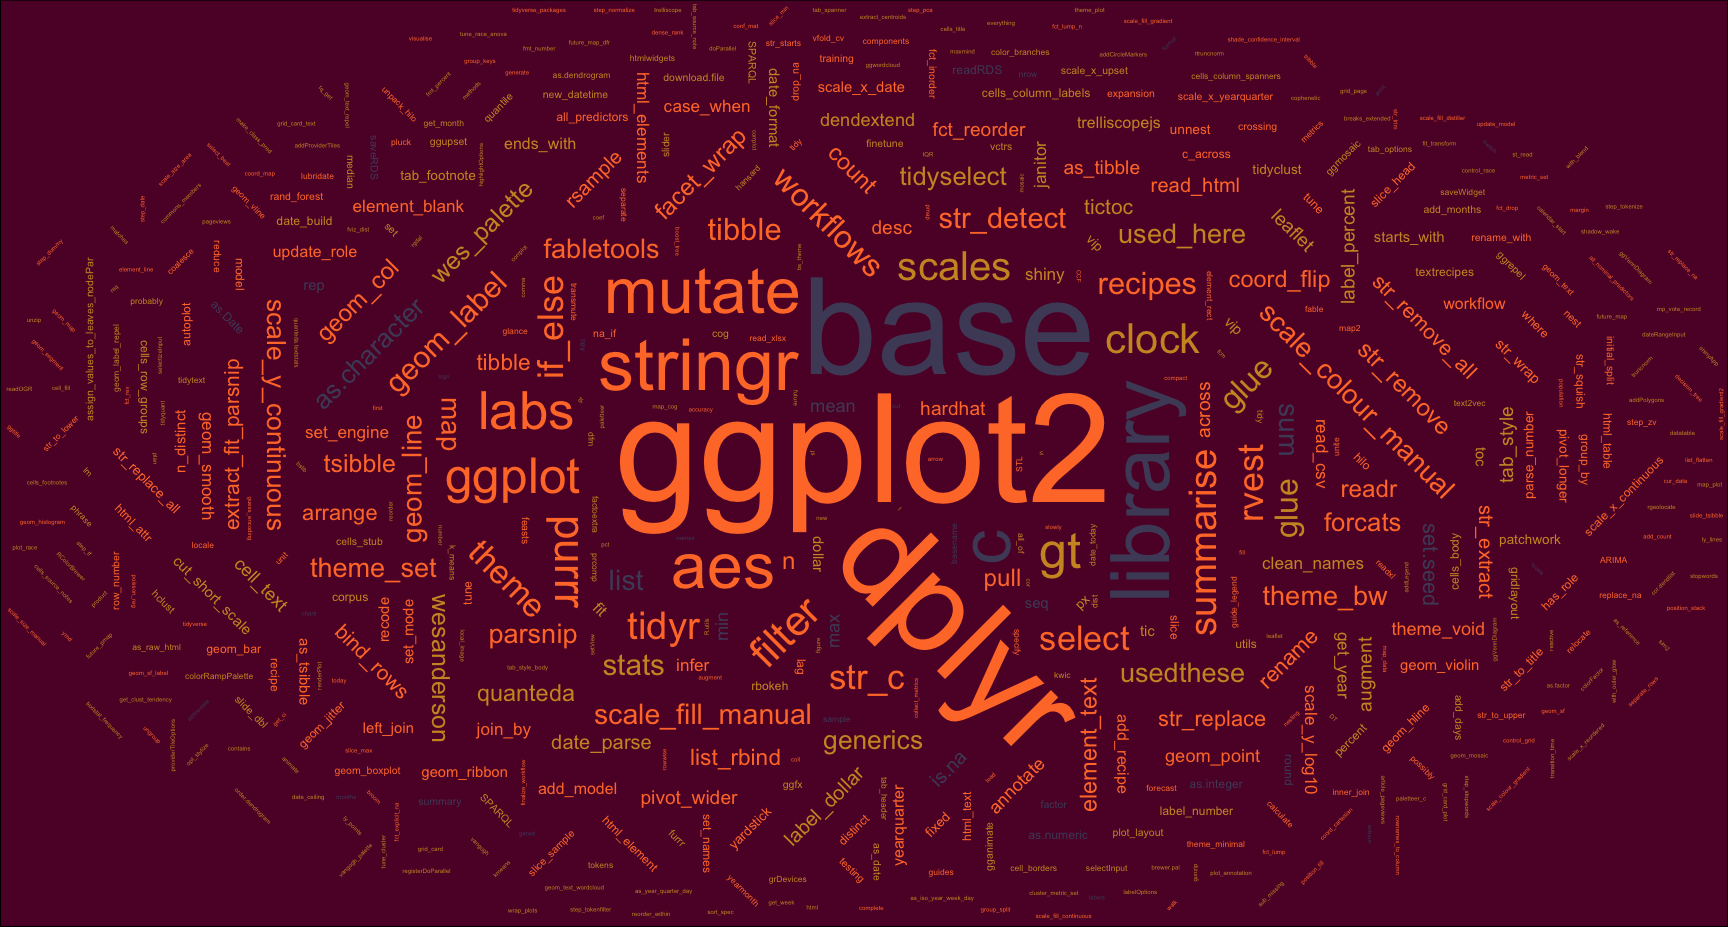
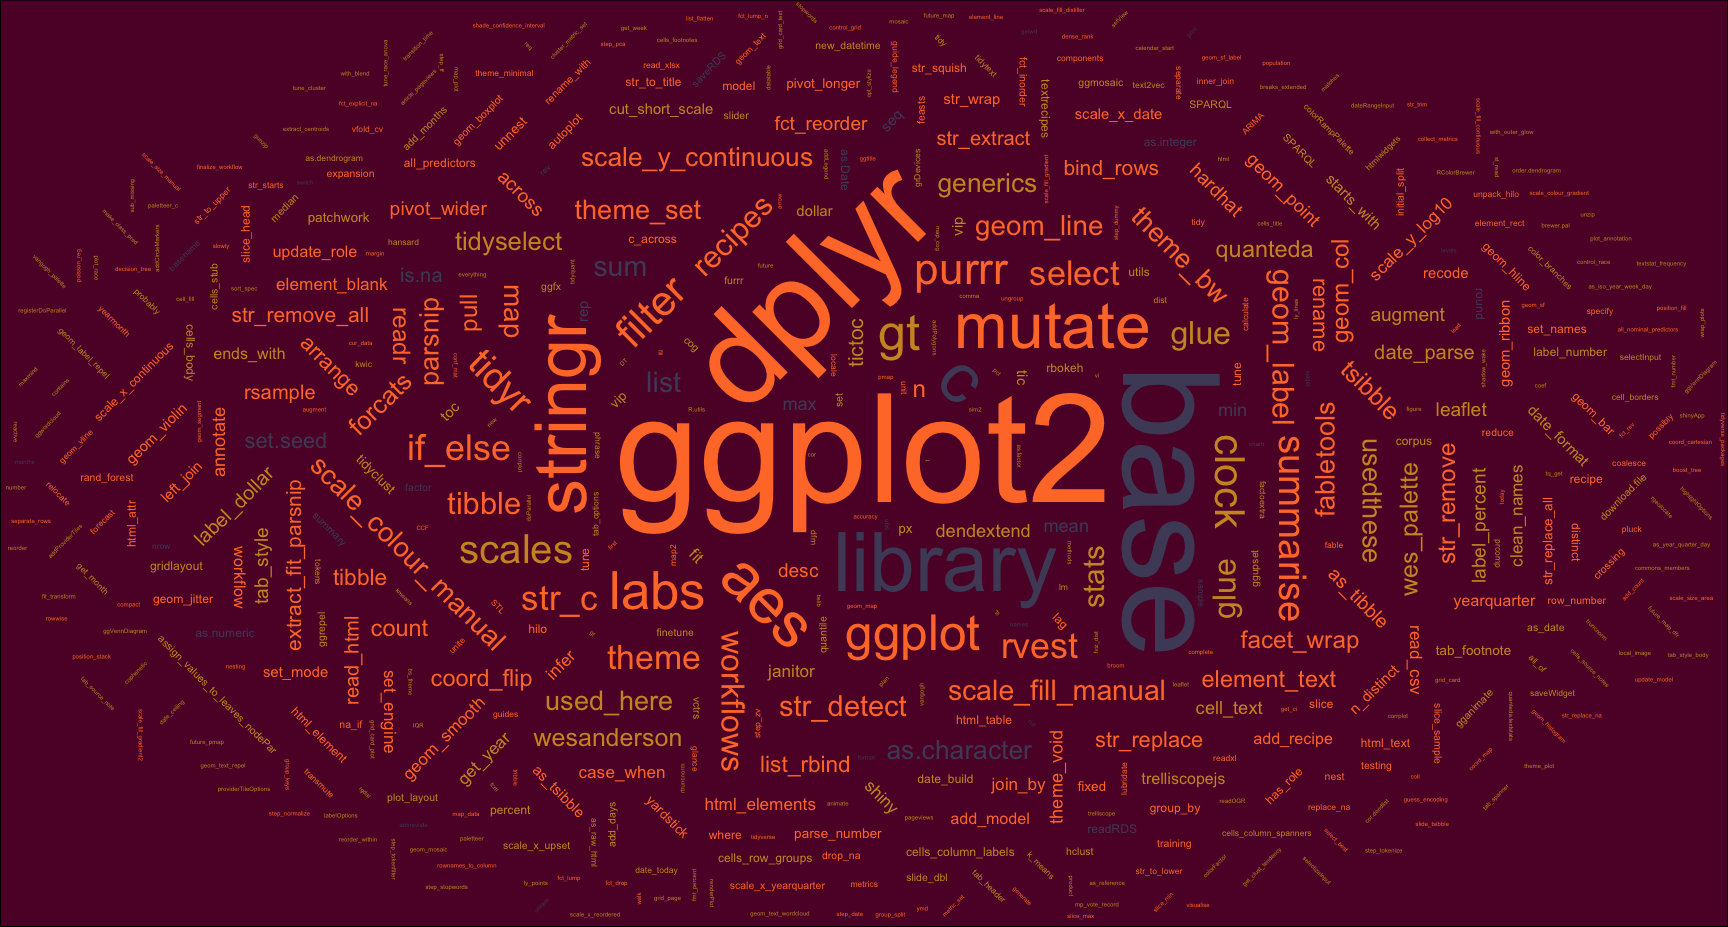
Amend html_elements

diff --git a/_site/project/box/index.html b/_site/project/box/index.html
@@ -297,7 +297,7 @@ code span.wa { color: #60a0b0; font-weight: bold; font-style: italic; } /* Warni
 <div class="sourceCode" id="cb4"><pre class="downlit sourceCode r code-with-copy"><code class="sourceCode R"><span><span class="va">table_df</span> <span class="op">&lt;-</span> <span class="fu"><a href="https://purrr.tidyverse.org/reference/map.html">map</a></span><span class="op">(</span><span class="va">urls</span>, \<span class="op">(</span><span class="va">x</span><span class="op">)</span> <span class="op">{</span></span>
 <span>  <span class="va">x</span> <span class="op">|&gt;</span></span>
 <span>    <span class="fu"><a href="http://xml2.r-lib.org/reference/read_xml.html">read_html</a></span><span class="op">(</span><span class="op">)</span> <span class="op">|&gt;</span></span>
-<span>    <span class="fu"><a href="https://rvest.tidyverse.org/reference/html_element.html">html_elements</a></span><span class="op">(</span><span class="st">"#r-toolbox , kable-table"</span><span class="op">)</span> <span class="op">|&gt;</span></span>
+<span>    <span class="fu"><a href="https://rvest.tidyverse.org/reference/html_element.html">html_elements</a></span><span class="op">(</span><span class="st">".usethese, .usedthese"</span><span class="op">)</span> <span class="op">|&gt;</span></span>
 <span>    <span class="fu"><a href="https://rvest.tidyverse.org/reference/html_table.html">html_table</a></span><span class="op">(</span><span class="op">)</span></span>
 <span><span class="op">}</span><span class="op">)</span> <span class="op">|&gt;</span></span>
 <span>  <span class="fu"><a href="https://purrr.tidyverse.org/reference/list_flatten.html">list_flatten</a></span><span class="op">(</span><span class="op">)</span> <span class="op">|&gt;</span></span>
